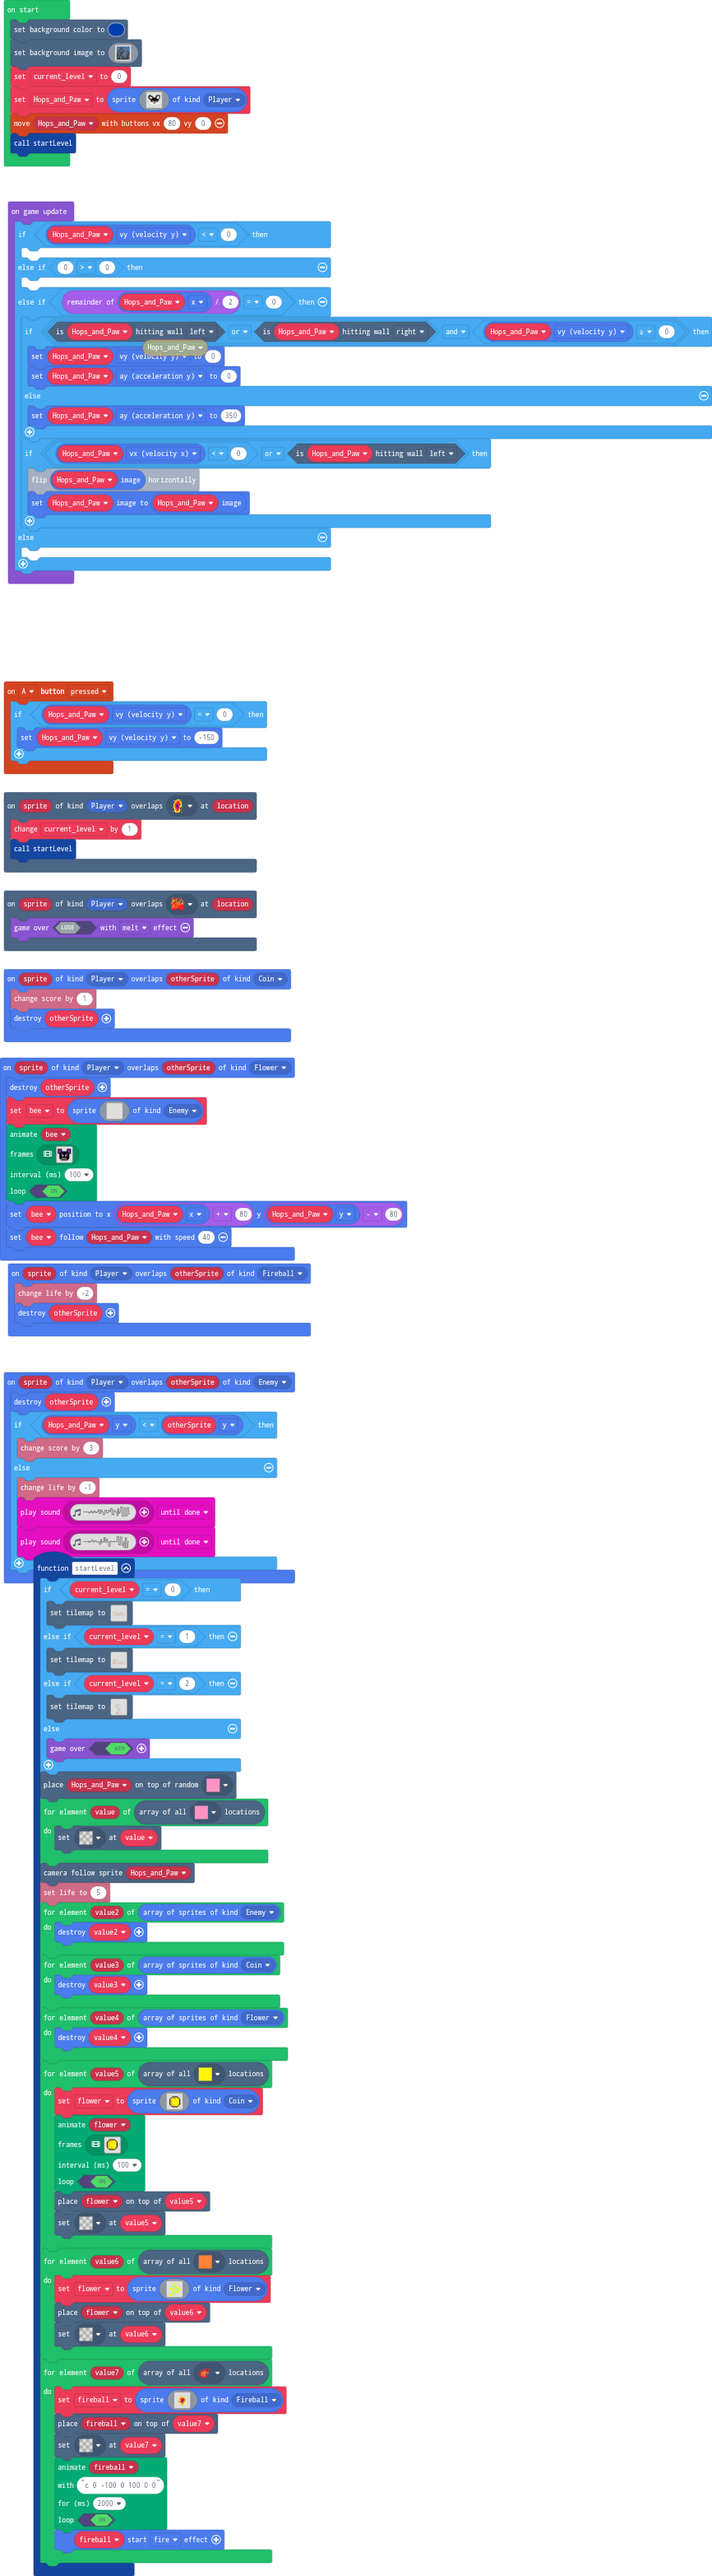
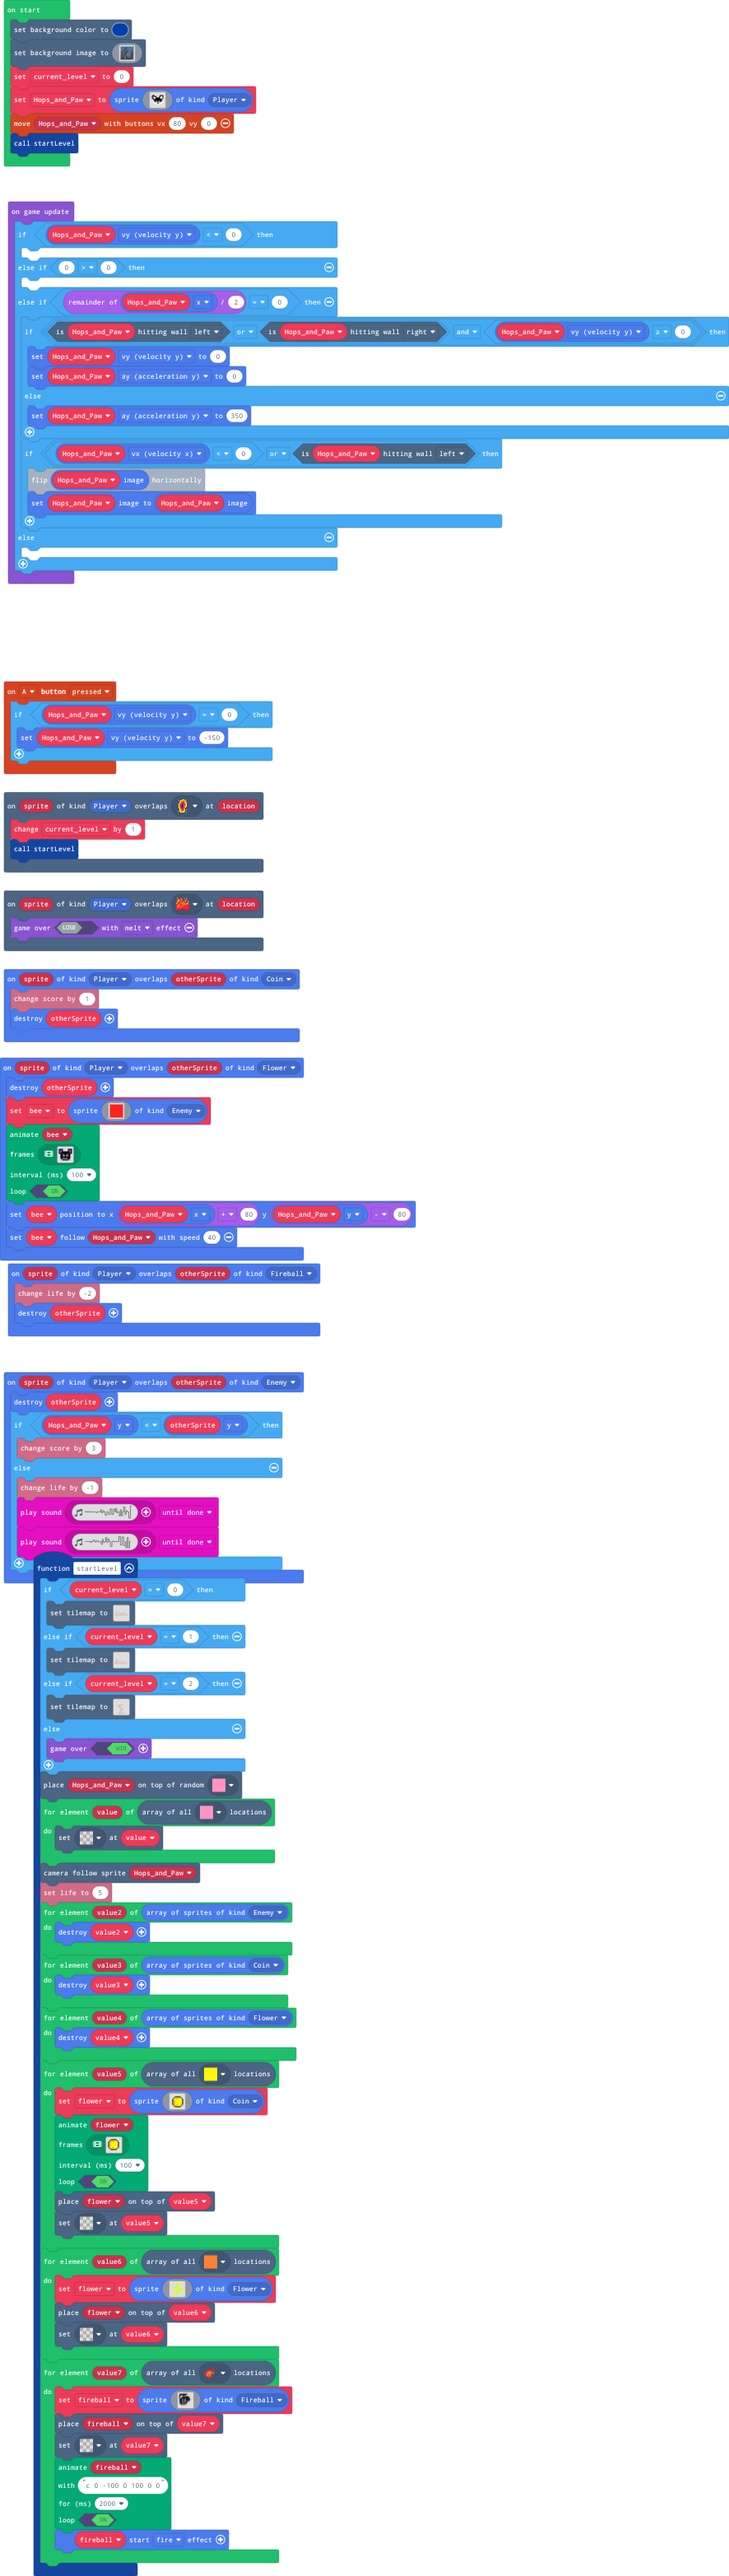
Changed The Back Round and Edited Levels and Fireballs

diff --git a/tilemap.g.ts b/tilemap.g.ts
@@ -47,7 +47,7 @@ namespace myTiles {
 ..................................................
 `, [myTiles.tile0,myTiles.tile1,myTiles.tile2,myTiles.tile3,myTiles.tile4,myTiles.tile5,myTiles.tile6,myTiles.tile7,myTiles.tile9,myTiles.tile10,myTiles.tile11], TileScale.Sixteen);
             case "level_0":
-            case "level_0":return tiles.createTilemap(hex`320019000000000000000000000000000000000000000000000000000000000000000000000000000000000000000000000000000000000000000000000000000000000000000000000000000000000000000000000000000000000000000000000000000000000000000000000000000000000000000000000000000000000000000000000000000000000000000000000000000000000000000000000000000000000000000000000000000000000000000000000000000000000000000000000000000000000000000000000000000000000000000000000000000000000000000000000000000000000000000000000000000000000000000000000000000000000000000000000000000000000000000000000000000000000000000000000000000000000000000000000000000000000000000000000000000000000000000000000000000000000000000000000000000000000000000000000000000000000000000000000000000000000000000000000000000000000000000000000000000000000000000000000000000000000000000000000000000000000000000000000000000000000000000000000000000000000000000000000000000000000000000000000000000000000000000000000000000000000000000000000000000000000000000000000000000000000000000000000000000005050504050505000500000000000000000000000000000000000000000000000000000000000000000000000000000000010101010101010101010000000000000000000000000000000000000000000000000000000000000000000000000000000000000000000000000000000000000000000000000000000000000000000000000000000000000000000000000000000001010000000000000000000000000000000000000000000000000000000000000000000004020000000000000000000000000000000400000000000000000000000000000004000000000000000000000000000000000101000000000000000000000000000001010100000000000000000000000001010101010100000000000000000000000004000000000000000000000000000000000000000500000000000000000000000000000000000101000000000000000000010100000000000000000000000000000000000000010100000004000000000000000000000000000000000000000000000400000000000000000000000000000000000000000000000001010101000000000000000000000000000000000000000001010000000000000000000000000000000000000000050004000000000000000000000000000000000000000000040000000000000000000000000000000000000000000000000101010101000000000000000000000000000000000000000101010101000000000000000000000000000000000600040500000000000000000000000000000000000000000000000000000000000000000000000000000000000000000000010101010100000000000000000000000000000000000000000000000000000000000000000000000000000000000000000000000000000000000000000000000000000000000000000000000000000000000000000000000000000000000000000000000303030303030303030303030303030303030303030303030303030303030303030303030303030303030303030303030300`, img`
+            case "level_0":return tiles.createTilemap(hex`320019000000000000000000000000000000000000000000000000000000000000000000000000000000000000000000000000000000000000000000000000000000000000000000000000000000000000000000000000000000000000000000000000000000000000000000000000000000000000000000000000000000000000000000000000000000000000000000000000000000000000000000000000000000000000000000000000000000000000000000000000000000000000000000000000000000000000000000000000000000000000000000000000000000000000000000000000000000000000000000000000000000000000000000000000000000000000000000000000000000000000000000000000000000000000000000000000000000000000000000000000000000000000000000000700070007000000000000000000000000000000000000000000000000000000000000000000000000000000000000000000000000000000000000000000000000000000000000000000000000000000000000000000000000000000000000000000000000000000000000000000000000000000000000000000000000000000000000000000000000000000000000000000000000000000000000000000000000000000000000000000000000000000000000000000000000000000000000000000000005050504050505000500000000000000000000000000000000000000000000000000000000000000000000000000000000010101010101010101010000000000000000000000000000000000000000000000000000000000000000000000000000000000000000000000000000000000000000000000000000000000000000000000000000000000000000000000000000000001010000000000000000000000000000000000000000000000000000000000000000000004020000000000000000000000000000000400000000000000000000000000000004000000000000000000000000000000000101000000000000000000000000000001010100000000000000000000000001010101010100000000000000000000000004000000000000000000000000000000000000000500000000000000000000000000000000000101000000000000000000010100000000000000000000000000000000000000010100000004000000000000000000000000000000000000000000000400000000000000000000000000000000000000000000000000010101010000000000000000000000000000000000000001010000000000000000000000000000000000000000050004000000000000000000000000000000000000000000040000000000000000000000000000000000000000000000000101010101000000000000000000000000000000000000000101010101000000000000000000000000000000000600040500000000000000000000000000000000000000000000000000000000000000000000000000000000000000000000010101010100000000000000000000000000000000000000000000000000000000000000000000000000000000000000000000000000000000000000000000000000000000000000000000000000000000000000000000000000000000000000000000000303030303030303030303030303030303030303030303030303030303030303030303030303030303030303030303030300`, img`
 ..................................................
 ..................................................
 ..................................................
@@ -73,9 +73,9 @@ namespace myTiles {
 22222.............................................
 ..................................................
 ..................................................
-`, [myTiles.tile0,myTiles.tile1,myTiles.tile2,myTiles.tile3,myTiles.tile4,myTiles.tile5,myTiles.tile6,myTiles.tile7,myTiles.tile9,myTiles.tile10,myTiles.tile11], TileScale.Sixteen);
+`, [myTiles.tile0,myTiles.tile1,myTiles.tile2,myTiles.tile3,myTiles.tile4,myTiles.tile5,myTiles.tile6,myTiles.transparency16], TileScale.Sixteen);
             case "level_1":
[2 lines of base64/hex data omitted]
 .........................
 .........................
 .........................
@@ -127,63 +127,6 @@ namespace myTiles {
 ...22222.................
 .........................
 `, [myTiles.tile0,myTiles.tile1,myTiles.tile2,myTiles.tile3,myTiles.tile4,myTiles.tile5,myTiles.tile6,myTiles.tile7,myTiles.tile9,myTiles.tile10,myTiles.tile11], TileScale.Sixteen);
-            case "level1":
-            case "level1":return tiles.createTilemap(hex`1000100000000000000000000000000000000000000000000000000000000000000000000000000000000000000000000000000000000000000000000000000000000000000000000000000000000000000000000000000000000000000000000000000000000000000000000000000000000000000000000000000000000000000000000000000000000000000000000000000000000000000000000000000000000000000000000000000000000000000000000000000000000000000000000000000000000000000000000000000000000000000000000000000000000000000000000000000000000000000000000000000000000000000000000000000000000000`, img`
-. . . . . . . . . . . . . . . . 
-. . . . . . . . . . . . . . . . 
-. . . . . . . . . . . . . . . . 
-. . . . . . . . . . . . . . . . 
-. . . . . . . . . . . . . . . . 
-. . . . . . . . . . . . . . . . 
-. . . . . . . . . . . . . . . . 
-. . . . . . . . . . . . . . . . 
-. . . . . . . . . . . . . . . . 
-. . . . . . . . . . . . . . . . 
-. . . . . . . . . . . . . . . . 
-. . . . . . . . . . . . . . . . 
-. . . . . . . . . . . . . . . . 
-. . . . . . . . . . . . . . . . 
-. . . . . . . . . . . . . . . . 
-. . . . . . . . . . . . . . . . 
-`, [myTiles.transparency16], TileScale.Sixteen);
-            case "level2":
-            case "level2":return tiles.createTilemap(hex`1000100000000000000000000000000000000000000000000000000000000000000000000000000000000000000000000000000000000000000000000000000000000000000000000000000000000000000000000000000000000000000000000000000000000000000000000000000000000000000000000000000000000000000000000000000000000000000000000000000000000000000000000000000000000000000000000000000000000000000000000000000000000000000000000000000000000000000000000000000000000000000000000000000000000000000000000000000000000000000000000000000000000000000000000000000000000000`, img`
-. . . . . . . . . . . . . . . . 
-. . . . . . . . . . . . . . . . 
-. . . . . . . . . . . . . . . . 
-. . . . . . . . . . . . . . . . 
-. . . . . . . . . . . . . . . . 
-. . . . . . . . . . . . . . . . 
-. . . . . . . . . . . . . . . . 
-. . . . . . . . . . . . . . . . 
-. . . . . . . . . . . . . . . . 
-. . . . . . . . . . . . . . . . 
-. . . . . . . . . . . . . . . . 
-. . . . . . . . . . . . . . . . 
-. . . . . . . . . . . . . . . . 
-. . . . . . . . . . . . . . . . 
-. . . . . . . . . . . . . . . . 
-. . . . . . . . . . . . . . . . 
-`, [myTiles.transparency16], TileScale.Sixteen);
-            case "level3":
-            case "level3":return tiles.createTilemap(hex`1000100000000000000000000000000000000000000000000000000000000000000000000000000000000000000000000000000000000000000000000000000000000000000000000000000000000000000000000000000000000000000000000000000000000000000000000000000000000000000000000000000000000000000000000000000000000000000000000000000000000000000000000000000000000000000000000000000000000000000000000000000000000000000000000000000000000000000000000000000000000000000000000000000000000000000000000000000000000000000000000000000000000000000000000000000000000000`, img`
-. . . . . . . . . . . . . . . . 
-. . . . . . . . . . . . . . . . 
-. . . . . . . . . . . . . . . . 
-. . . . . . . . . . . . . . . . 
-. . . . . . . . . . . . . . . . 
-. . . . . . . . . . . . . . . . 
-. . . . . . . . . . . . . . . . 
-. . . . . . . . . . . . . . . . 
-. . . . . . . . . . . . . . . . 
-. . . . . . . . . . . . . . . . 
-. . . . . . . . . . . . . . . . 
-. . . . . . . . . . . . . . . . 
-. . . . . . . . . . . . . . . . 
-. . . . . . . . . . . . . . . . 
-. . . . . . . . . . . . . . . . 
-. . . . . . . . . . . . . . . . 
-`, [myTiles.transparency16], TileScale.Sixteen);
         }
         return null;
     })

diff --git a/main.ts b/main.ts
@@ -22,22 +22,22 @@ scene.onOverlapTile(SpriteKind.Player, assets.tile`tile2`, function (sprite, loc
 sprites.onOverlap(SpriteKind.Player, SpriteKind.Flower, function (sprite, otherSprite) {
     otherSprite.destroy()
     bee = sprites.create(img`
-        . . . . . . . . . . . . . . . . 
-        . . . . . . . . . . . . . . . . 
-        . . . . . . . . . . . . . . . . 
-        . . . . . . . . . . . . . . . . 
-        . . . . . . . . . . . . . . . . 
-        . . . . . . . . . . . . . . . . 
-        . . . . . . . . . . . . . . . . 
-        . . . . . . . . . . . . . . . . 
-        . . . . . . . . . . . . . . . . 
-        . . . . . . . . . . . . . . . . 
-        . . . . . . . . . . . . . . . . 
-        . . . . . . . . . . . . . . . . 
-        . . . . . . . . . . . . . . . . 
-        . . . . . . . . . . . . . . . . 
-        . . . . . . . . . . . . . . . . 
-        . . . . . . . . . . . . . . . . 
+        2 2 2 2 2 2 2 2 2 2 2 2 2 2 2 2 
+        2 2 2 2 2 2 2 2 2 2 2 2 2 2 2 2 
+        2 2 2 2 2 2 2 2 2 2 2 2 2 2 2 2 
+        2 2 2 2 2 2 2 2 2 2 2 2 2 2 2 2 
+        2 2 2 2 2 2 2 2 2 2 2 2 2 2 2 2 
+        2 2 2 2 2 2 2 2 2 2 2 2 2 2 2 2 
+        2 2 2 2 2 2 2 2 2 2 2 2 2 2 2 2 
+        2 2 2 2 2 2 2 2 2 2 2 2 2 2 2 2 
+        2 2 2 2 2 2 2 2 2 2 2 2 2 2 2 2 
+        2 2 2 2 2 2 2 2 2 2 2 2 2 2 2 2 
+        2 2 2 2 2 2 2 2 2 2 2 2 2 2 2 2 
+        2 2 2 2 2 2 2 2 2 2 2 2 2 2 2 2 
+        2 2 2 2 2 2 2 2 2 2 2 2 2 2 2 2 
+        2 2 2 2 2 2 2 2 2 2 2 2 2 2 2 2 
+        2 2 2 2 2 2 2 2 2 2 2 2 2 2 2 2 
+        2 2 2 2 2 2 2 2 2 2 2 2 2 2 2 2 
         `, SpriteKind.Enemy)
     animation.runImageAnimation(
     bee,
@@ -316,22 +316,26 @@ function startLevel () {
     }
     for (let value7 of tiles.getTilesByType(assets.tile`tile11`)) {
         fireball = sprites.create(img`
-            . . . . . . . . . . . . . . . . 
-            . . . . . . . . . . . . . . . . 
-            . . . . . . . . . . . . . . . . 
-            . . . . . . . 5 . . . . . . . . 
-            . . . . 5 5 2 5 5 4 5 5 . . . . 
-            . . . . . 4 4 4 4 2 4 . . . . . 
-            . . . 5 4 4 2 2 2 2 4 5 . . . . 
-            . . . 5 4 . 2 8 2 8 4 2 . . . . 
-            . . . 5 5 . 2 8 8 2 4 5 . . . . 
-            . . . 2 5 2 2 8 2 4 4 5 . . . . 
-            . . . . 5 4 2 2 2 4 5 . . . . . 
-            . . . . . . 4 . 4 4 5 . . . . . 
-            . . . 5 . 5 5 5 4 5 5 . . . . . 
-            . . . . . . . 2 5 5 . . . . . . 
-            . . . . . . . . . . . . . 5 . . 
-            . . . . . . . . . . . . . . . . 
+            .ffffffffffff......
+            .fffffffffff.......
+            .fff1ffffff........
+            fff111ff...........
+            ff111ff.fffffff....
+            f111ffffffffffff...
+            ff1fffffffffffff...
+            .ffffffffffffffff..
+            .ffff1fff1fffffff..
+            .ffff1fff1fffffff..
+            .ffff1fff1ffffff...
+            .ffff1fff1fff.ff...
+            .ffffffffffff......
+            .fff1f1f1f1ff......
+            .fffffffffff.......
+            ..fff1f1f1ff.......
+            ...fffffff.........
+            ...................
+            ...................
+            ...................
             `, SpriteKind.Fireball)
         tiles.placeOnTile(fireball, value7)
         tiles.setTileAt(value7, assets.tile`tile0`)
@@ -350,7 +354,7 @@ sprites.onOverlap(SpriteKind.Player, SpriteKind.Enemy, function (sprite, otherSp
         info.changeScoreBy(3)
     } else {
         info.changeLifeBy(-1)
-        music.playSoundEffect(music.createSoundEffect(WaveShape.Noise, 5000, 5000, 0, 255, 500, SoundExpressionEffect.None, InterpolationCurve.Linear), SoundExpressionPlayMode.UntilDone)
+        music.playSoundEffect(music.createSoundEffect(WaveShape.Noise, 1, 5000, 15, 255, 500, SoundExpressionEffect.None, InterpolationCurve.Linear), SoundExpressionPlayMode.UntilDone)
         music.playSoundEffect(music.createSoundEffect(WaveShape.Noise, 3300, 5000, 0, 255, 150, SoundExpressionEffect.Warble, InterpolationCurve.Linear), SoundExpressionPlayMode.UntilDone)
     }
 })

diff --git a/images.g.ts b/images.g.ts
@@ -10,98 +10,7 @@ namespace myImages {
 
     helpers._registerFactory("animation", function(name: string) {
         switch(helpers.stringTrim(name)) {
-            case "myAnim":
-            case "anim1":return [img`
-.ffffff.....ffffff.
-ff1fffff...ff1fffff
-f111f.ff...f111f.ff
-f111f......f111f...
-fd11ffffffffd11f...
-fddffffffffffddf...
-ffffffffffffffff...
-..fff1ffffff1f.....
-..fff11ffff11f.....
-..ffff1ffff1ff.....
-..ffff1ffff1ff.....
-..ffffffffffff.....
-..ffffffffffff.....
-...ffffffffff......
-....ffffffff.......
-...................
-...................
-`, img`
-...................
-.ffffff.....ffffff.
-ff1fffff...ff1fffff
-f111f.ff...f111f.ff
-f111f......f111f...
-fd11ffffffffd11f...
-fddffffffffffddf...
-ffffffffffffffff...
-..fff1ffffff1f.....
-..fff11ffff11f.....
-..ffff1ffff1ff.....
-..ffff1ffff1ff.....
-..ffffffffffff.....
-..ffffffffffff.....
-...ffffffffff......
-....ffffffff.......
-...................
-`, img`
-...................
-...................
-.ffffff.....ffffff.
-ff1fffff...ff1fffff
-f111f.ff...f111f.ff
-f111f......f111f...
-fd11ffffffffd11f...
-fddffffffffffddf...
-ffffffffffffffff...
-..fff1ffffff1f.....
-..fff11ffff11f.....
-..ffff1ffff1ff.....
-..ffff1ffff1ff.....
-..ffffffffffff.....
-..ffffffffffff.....
-...ffffffffff......
-....ffffffff.......
-`, img`
-...................
-.ffffff.....ffffff.
-ff1fffff...ff1fffff
-f111f.ff...f111f.ff
-f111f......f111f...
-fd11ffffffffd11f...
-fddffffffffffddf...
-ffffffffffffffff...
-..fff1ffffff1f.....
-..fff11ffff11f.....
-..ffff1ffff1ff.....
-..ffff1ffff1ff.....
-..ffffffffffff.....
-..ffffffffffff.....
-...ffffffffff......
-....ffffffff.......
-...................
-`, img`
-.ffffff.....ffffff.
-ff1fffff...ff1fffff
-f111f.ff...f111f.ff
-f111f......f111f...
-fd11ffffffffd11f...
-fddffffffffffddf...
-ffffffffffffffff...
-..fff1ffffff1f.....
-..fff11ffff11f.....
-..ffff1ffff1ff.....
-..ffff1ffff1ff.....
-..ffffffffffff.....
-..ffffffffffff.....
-...ffffffffff......
-....ffffffff.......
-...................
-...................
-`];
+
         }
         return null;
     })
